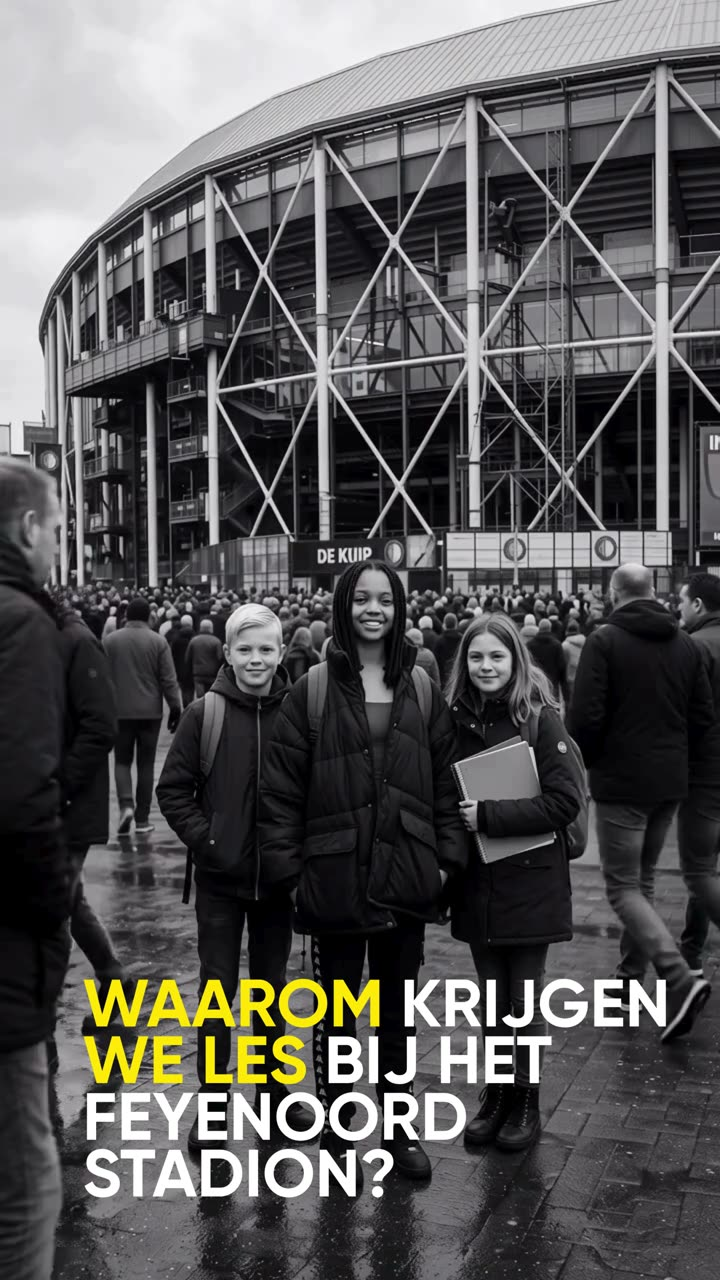
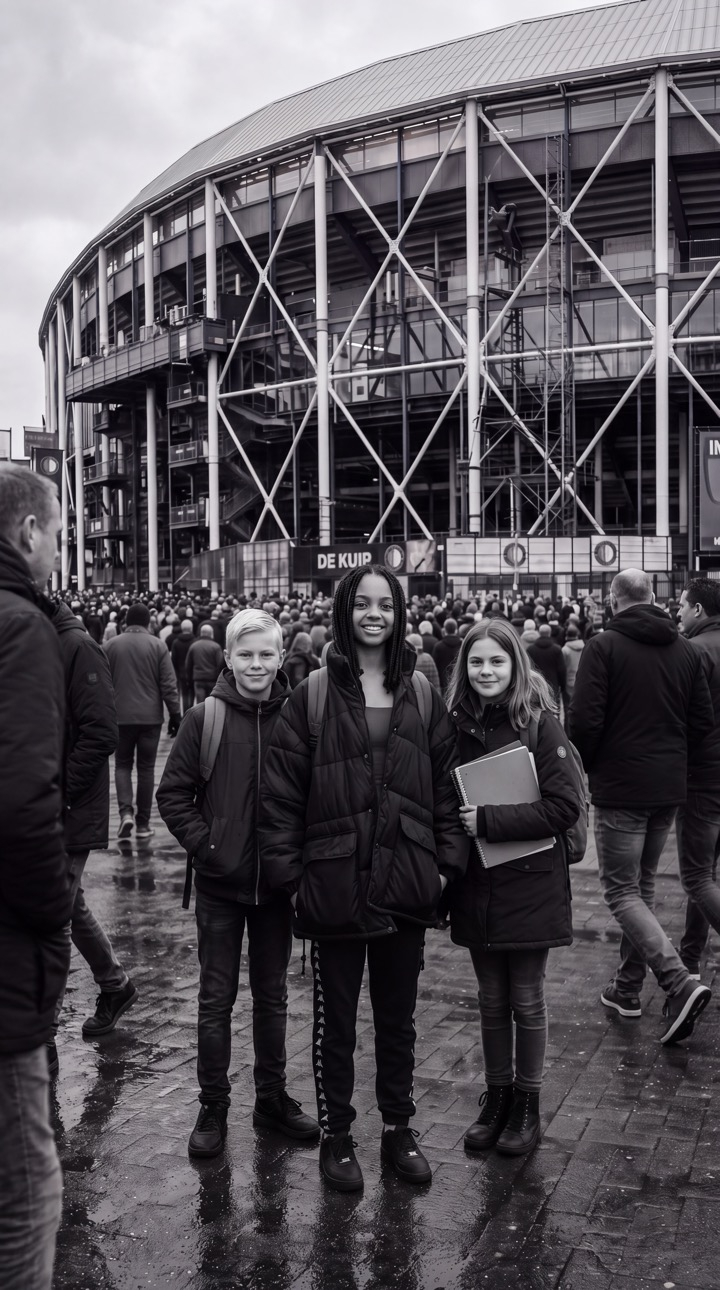
Projecten: tekstloos startbeeld per videokaart (poster = schone foto)
- Video's hebben op elk frame ingebrande tekst; poster daarom losse tekstloze foto
- Maas=ProjectMaasV1, Oranjeboomstraat=ProjectOranjeboomstraat, Stadionpark=ProjectStadionpark
- Katendrecht=zw/w portret-uitsnede van Kop van Zuid (Hotel New York/haven) als interim
- object-position slide teruggedraaid -> stabiel (onderkant); cache v=15

diff --git a/assets/site.css b/assets/site.css
@@ -265,11 +265,9 @@ a{color:inherit;text-decoration:none}
 .proj__img{position:absolute;inset:0;background-size:cover;background-position:center;
   filter:grayscale(100%) contrast(1.05);transition:transform .8s var(--ease)}
 .proj:hover .proj__img,.proj.is-hot .proj__img{transform:scale(1.07)}
-.proj__vid{position:absolute;inset:0;width:100%;height:100%;object-fit:cover;object-position:50% 0%;
-  filter:contrast(1.03);transition:transform .8s var(--ease),object-position .6s var(--ease)}
+.proj__vid{position:absolute;inset:0;width:100%;height:100%;object-fit:cover;object-position:50% 100%;
+  filter:contrast(1.03);transition:transform .8s var(--ease)}
 .proj:hover .proj__vid,.proj.is-hot .proj__vid{transform:scale(1.07)}
-/* rest: top-biased crop hides the burned-in caption; hover: slide down to reveal it */
-.proj:hover .proj__vid{object-position:50% 100%}
 .proj__scrim{position:absolute;inset:0;transition:opacity .45s var(--ease);
   background:linear-gradient(180deg,rgba(0,0,0,.72),rgba(0,0,0,.12) 42%,rgba(0,0,0,0) 64%)}
 .proj.is-hot{outline:3px solid var(--accent);outline-offset:-3px}

diff --git a/index.html b/index.html
@@ -6,7 +6,7 @@
 <title>Stedelijk Lyceum Rotterdam — de nieuwste school van de stad</title>
 <meta name="description" content="In 2027 opent het Stedelijk Lyceum Rotterdam op de Kop van Zuid. Een hypermodern schoolgebouw, vernieuwend onderwijs en de stad als klaslokaal.">
 <script>(function(){var w=window.innerWidth||document.documentElement.clientWidth||0;if(w>0&&w<=820){window.location.replace('app.html');}})();</script>
-<link rel="stylesheet" href="assets/site.css?v=14">
+<link rel="stylesheet" href="assets/site.css?v=15">
 </head>
 <body data-hero>
 <div class="progress"></div>
@@ -102,6 +102,6 @@
   </div>
 </footer>
 
-<script src="assets/site.js?v=14"></script>
+<script src="assets/site.js?v=15"></script>
 </body>
 </html>

diff --git a/onderwijs.html b/onderwijs.html
@@ -6,7 +6,7 @@
 <title>De stad als klaslokaal — Stedelijk Lyceum Rotterdam</title>
 <meta name="description" content="Ons onderwijsconcept: De Stad als Klaslokaal. Je leert niet alleen in de klas, maar in de hele stad — in vier projecten en zeven stappen.">
 <script>(function(){var w=window.innerWidth||document.documentElement.clientWidth||0;if(w>0&&w<=820){window.location.replace('app.html');}})();</script>
-<link rel="stylesheet" href="assets/site.css?v=14">
+<link rel="stylesheet" href="assets/site.css?v=15">
 </head>
 <body data-hero>
 <div class="progress"></div>
@@ -145,6 +145,6 @@
   </div>
 </footer>
 
-<script src="assets/site.js?v=14"></script>
+<script src="assets/site.js?v=15"></script>
 </body>
 </html>

diff --git a/introductie.html b/introductie.html
@@ -6,7 +6,7 @@
 <title>Introductie — Stedelijk Lyceum Rotterdam</title>
 <meta name="description" content="In 2027 gaan de deuren open. Ontdek de nieuwste school van Rotterdam: hypermodern gebouw, vernieuwend onderwijs en een toplocatie op de Kop van Zuid.">
 <script>(function(){var w=window.innerWidth||document.documentElement.clientWidth||0;if(w>0&&w<=820){window.location.replace('app.html');}})();</script>
-<link rel="stylesheet" href="assets/site.css?v=14">
+<link rel="stylesheet" href="assets/site.css?v=15">
 </head>
 <body data-hero>
 <div class="progress"></div>
@@ -118,6 +118,6 @@
   </div>
 </footer>
 
-<script src="assets/site.js?v=14"></script>
+<script src="assets/site.js?v=15"></script>
 </body>
 </html>

diff --git a/kop-van-zuid.html b/kop-van-zuid.html
@@ -6,7 +6,7 @@
 <title>De Kop van Zuid — Stedelijk Lyceum Rotterdam</title>
 <meta name="description" content="Onze school staat op de Kop van Zuid, pal naast de Rijnhaven en aan de voet van de Erasmusbrug — een van de leukste plekken van Rotterdam.">
 <script>(function(){var w=window.innerWidth||document.documentElement.clientWidth||0;if(w>0&&w<=820){window.location.replace('app.html');}})();</script>
-<link rel="stylesheet" href="assets/site.css?v=14">
+<link rel="stylesheet" href="assets/site.css?v=15">
 </head>
 <body data-hero>
 <div class="progress"></div>
@@ -125,6 +125,6 @@
   </div>
 </footer>
 
-<script src="assets/site.js?v=14"></script>
+<script src="assets/site.js?v=15"></script>
 </body>
 </html>

diff --git a/aanmelden.html b/aanmelden.html
@@ -6,7 +6,7 @@
 <title>Aanmelden — Stedelijk Lyceum Rotterdam</title>
 <meta name="description" content="Ruimte voor ongeveer 150 nieuwe leerlingen — havo, vwo en gymnasium. Laat je gegevens achter en blijf op de hoogte van onze open dagen.">
 <script>(function(){var w=window.innerWidth||document.documentElement.clientWidth||0;if(w>0&&w<=820){window.location.replace('app.html');}})();</script>
-<link rel="stylesheet" href="assets/site.css?v=14">
+<link rel="stylesheet" href="assets/site.css?v=15">
 </head>
 <body data-hero>
 <div class="progress"></div>
@@ -132,6 +132,6 @@
   </div>
 </footer>
 
-<script src="assets/site.js?v=14"></script>
+<script src="assets/site.js?v=15"></script>
 </body>
 </html>

diff --git a/projecten.html b/projecten.html
@@ -6,7 +6,7 @@
 <title>Projecten — Stedelijk Lyceum Rotterdam</title>
 <meta name="description" content="Tijdens ieder project staat een echte plek in Rotterdam-Zuid centraal. Ontdek de vier projecten van jaar 1 op de interactieve kaart.">
 <script>(function(){var w=window.innerWidth||document.documentElement.clientWidth||0;if(w>0&&w<=820){window.location.replace('app.html');}})();</script>
-<link rel="stylesheet" href="assets/site.css?v=14">
+<link rel="stylesheet" href="assets/site.css?v=15">
 </head>
 <body data-hero>
 <div class="progress"></div>
@@ -129,6 +129,6 @@
   </div>
 </footer>
 
-<script src="assets/site.js?v=14"></script>
+<script src="assets/site.js?v=15"></script>
 </body>
 </html>

diff --git a/gebouw.html b/gebouw.html
@@ -6,7 +6,7 @@
 <title>Het gebouw — Stedelijk Lyceum Rotterdam</title>
 <meta name="description" content="Een vet gebouw: een schoolplein op het dak, een XL-gymzaal, grote collegezalen en een stadslab met 3D-printers en virtual reality.">
 <script>(function(){var w=window.innerWidth||document.documentElement.clientWidth||0;if(w>0&&w<=820){window.location.replace('app.html');}})();</script>
-<link rel="stylesheet" href="assets/site.css?v=14">
+<link rel="stylesheet" href="assets/site.css?v=15">
 </head>
 <body data-hero>
 <div class="progress"></div>
@@ -121,6 +121,6 @@
   </div>
 </footer>
 
-<script src="assets/site.js?v=14"></script>
+<script src="assets/site.js?v=15"></script>
 </body>
 </html>
